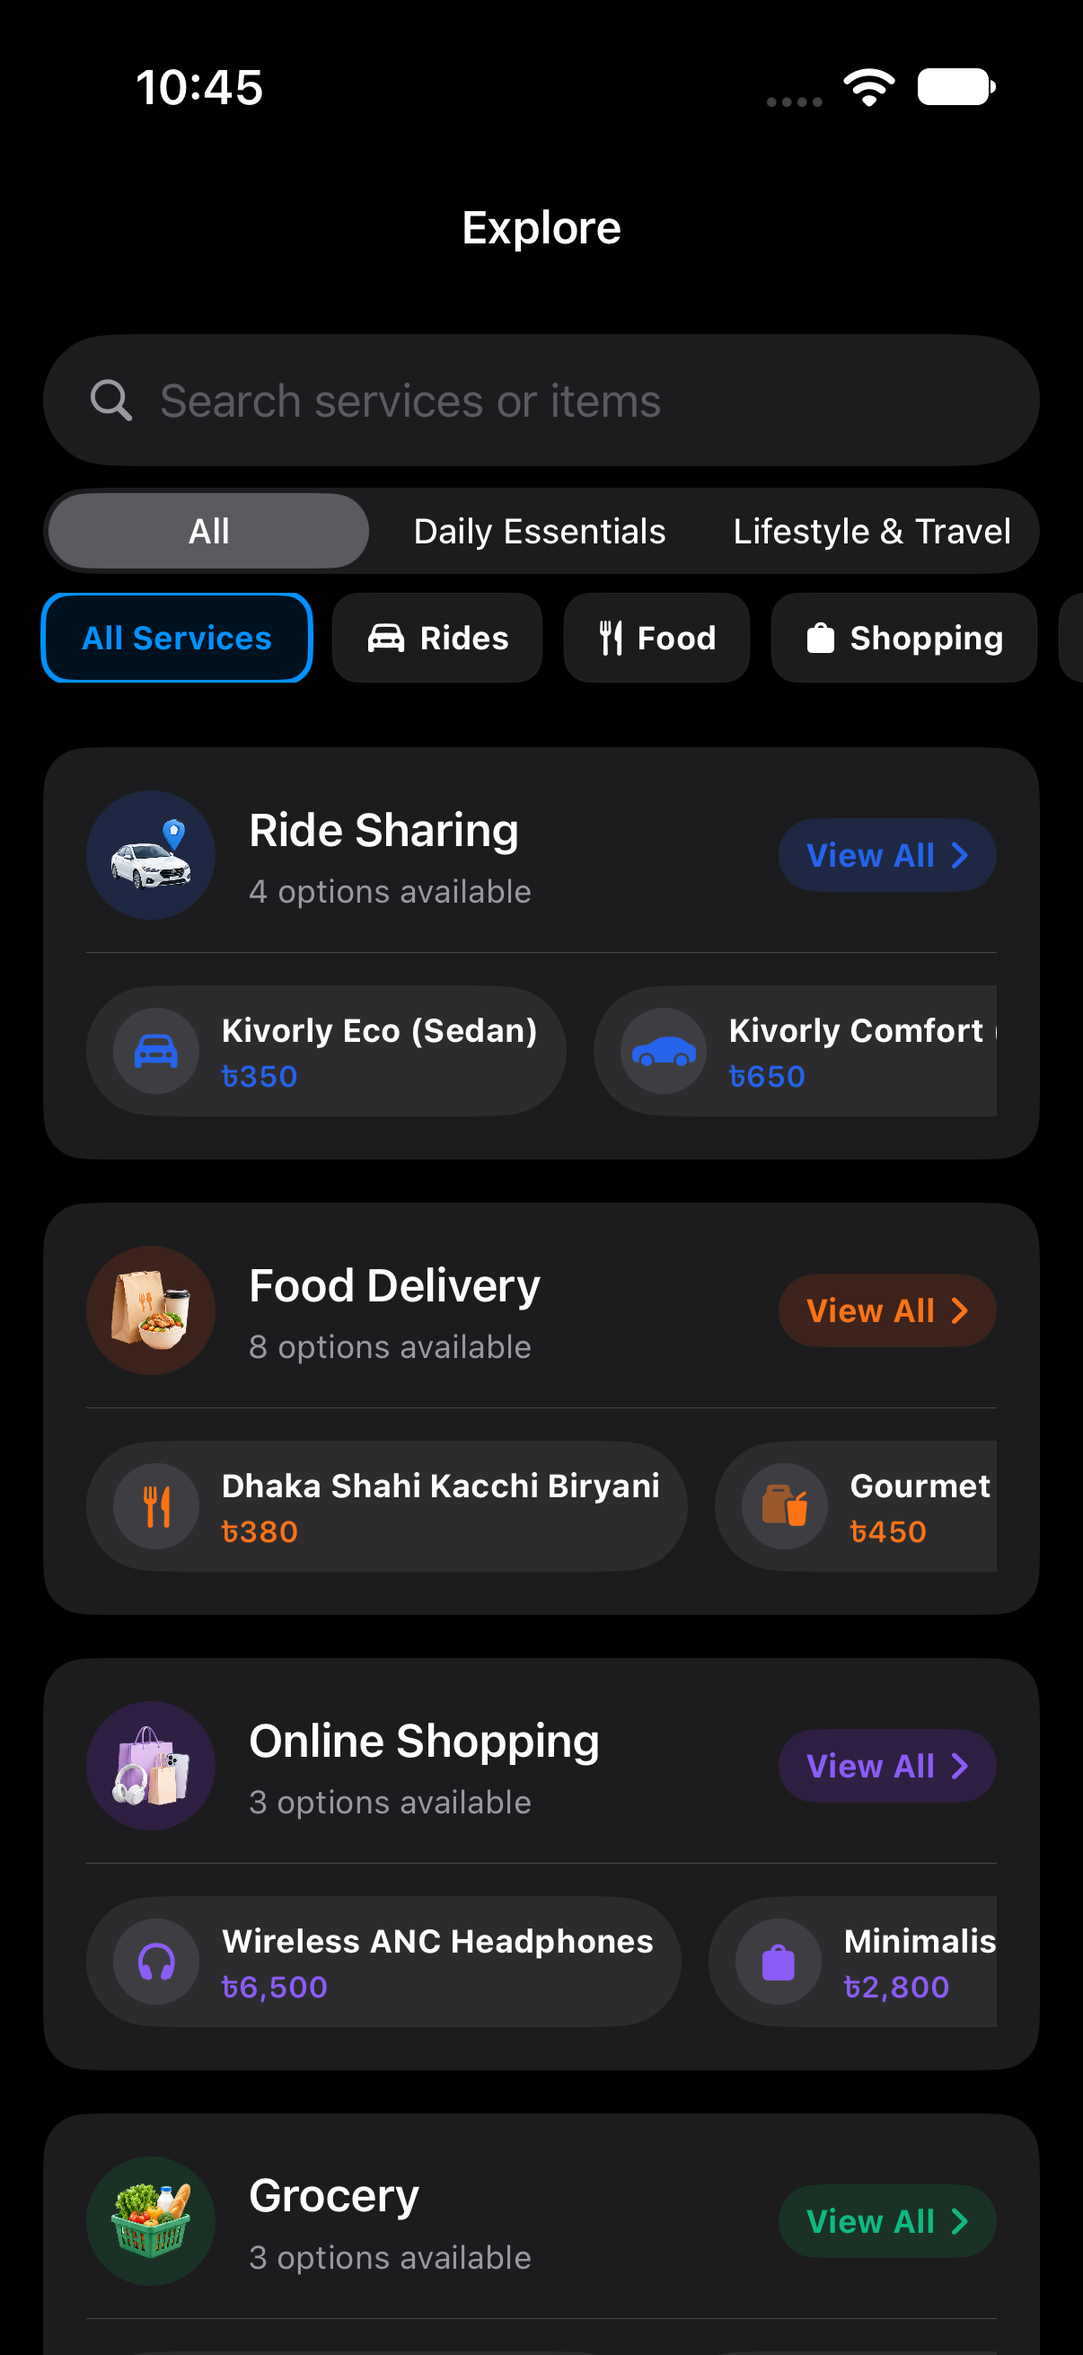
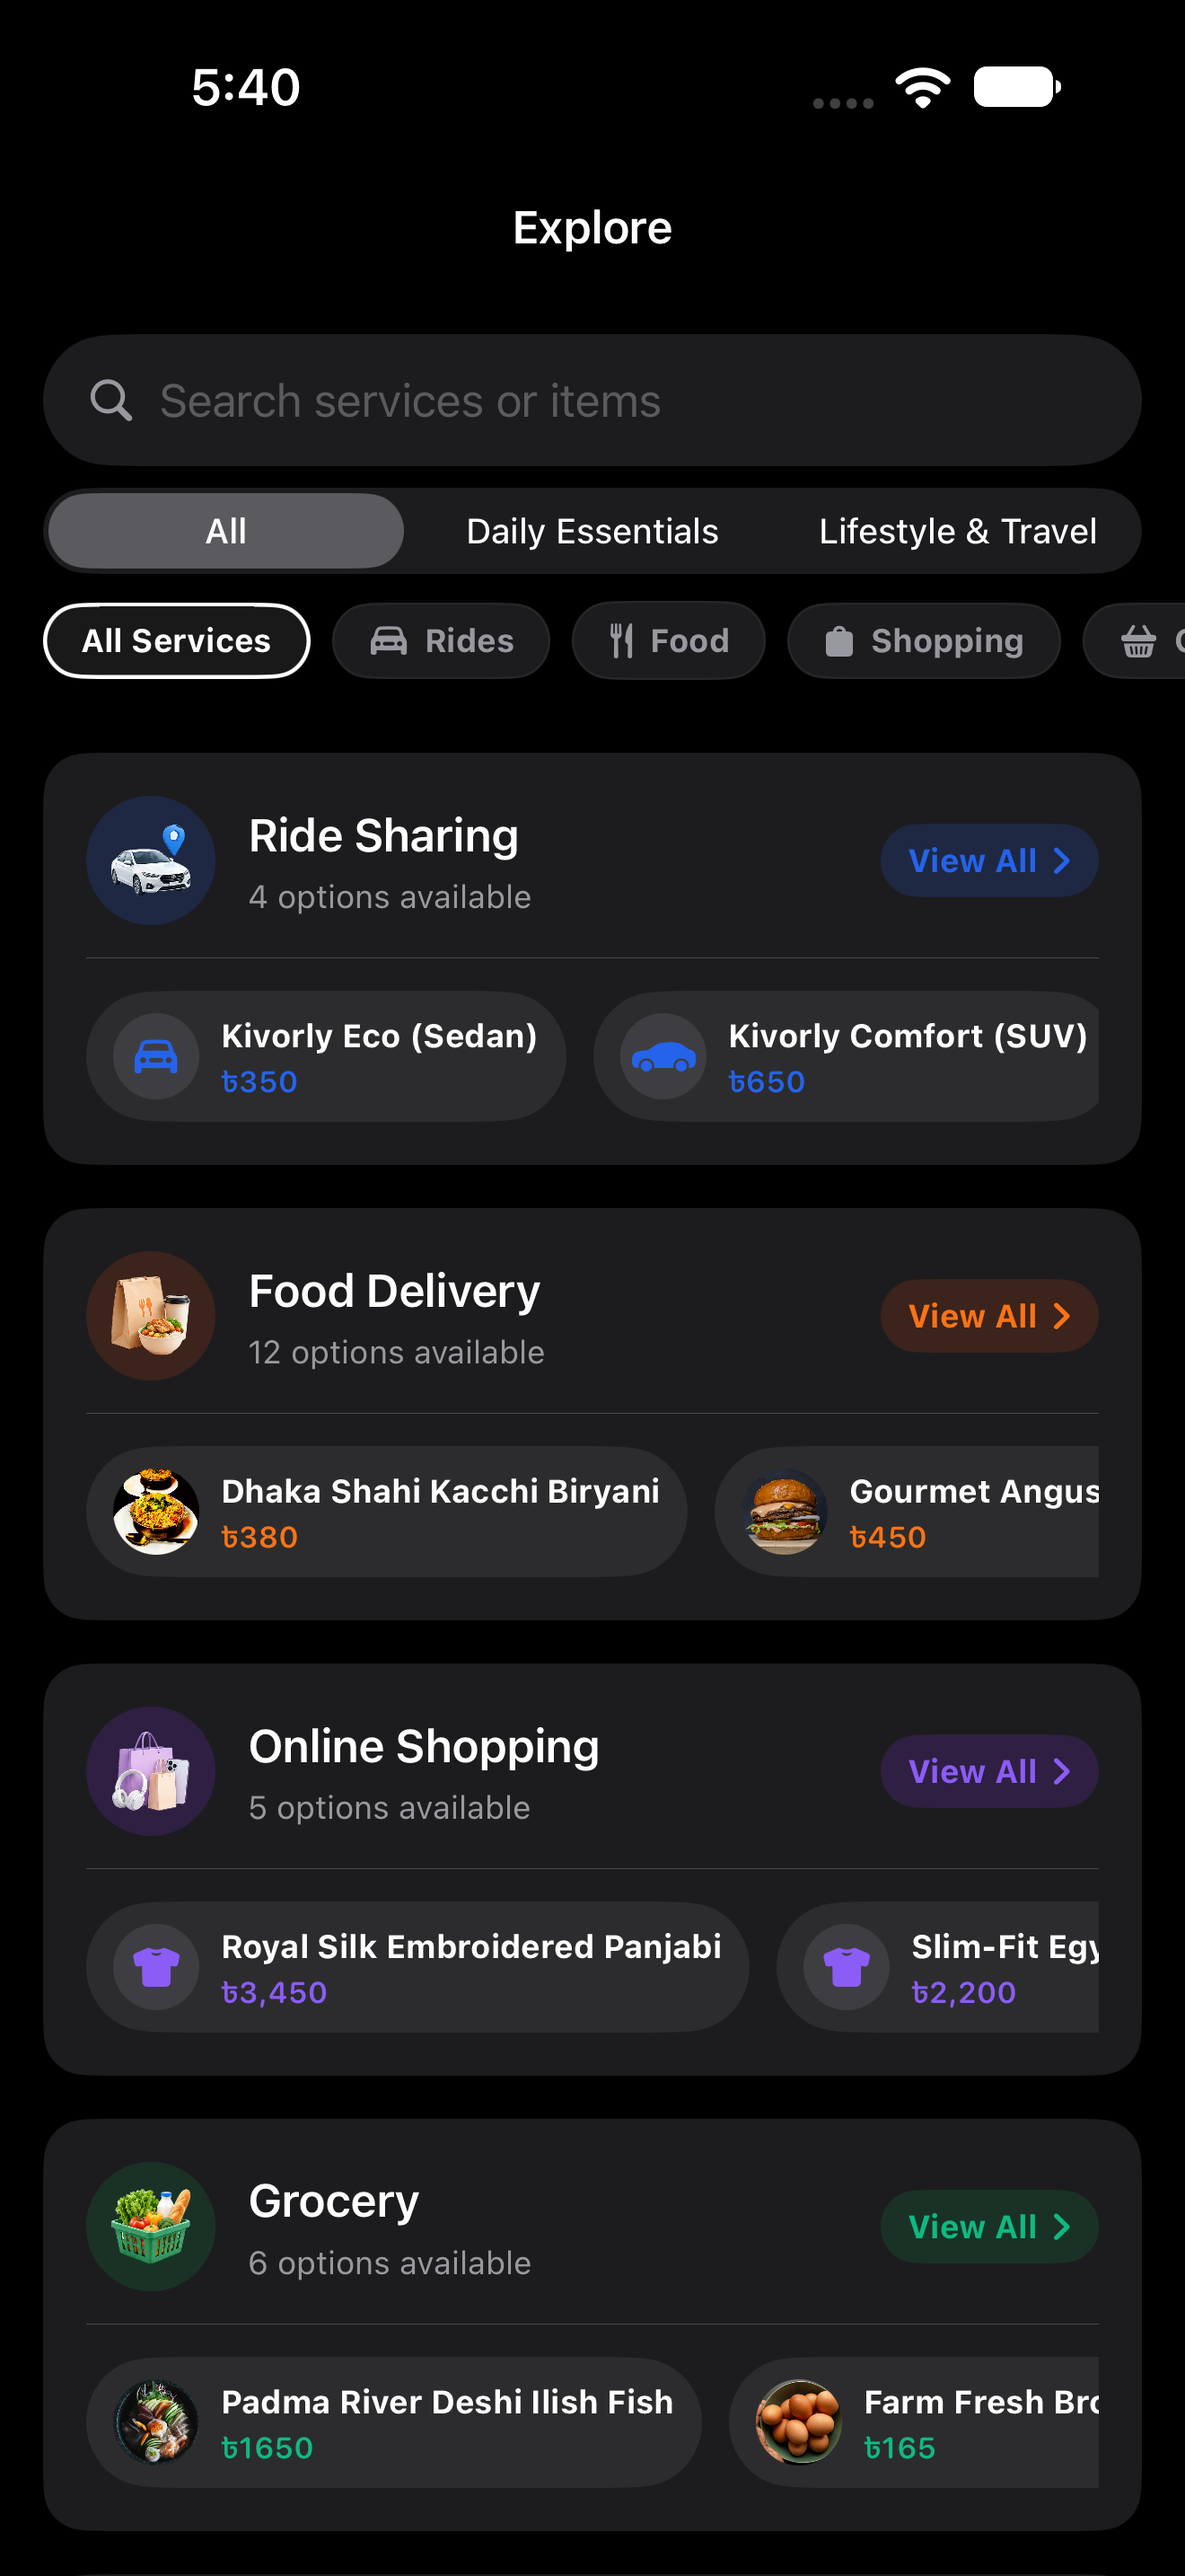
docs: showcase all updated screens with real photography and UI subflows in README

diff --git a/README.md b/README.md
@@ -3,7 +3,7 @@
 <img src="web/public/app-icon.png" width="96" alt="Kivorly Logo"/>
 
 # Kivorly 🇧🇩
-### The Everything In One App for Bangladesh
+### The Everything In One Super App for Bangladesh
 
 [![Version](https://img.shields.io/badge/Version-v1.0.0-006A4E?style=flat-square)](https://github.com/theshoaibme/kivorly/releases)
 [![iOS](https://img.shields.io/badge/iOS-SwiftUI%2017%2B-007AFF?style=flat-square&logo=apple&logoColor=white)](ios/)
@@ -14,36 +14,84 @@
 
 <p align="center">
   <b>Your everyday life in Bangladesh, simplified in one app.</b><br>
-  From hailing a quick ride across Dhaka and booking inter-city tickets, to sending parcels, shopping top brands, ordering fresh groceries, and reserving resort getaways — <b>Kivorly</b> connects you to all your daily needs with local payments (bKash, Nagad, COD) and real-time tracking across all 64 districts.
+  From hailing an Uber-style ride across Dhaka and booking inter-city Scania buses or trains, to sending parcels nationwide, shopping curated brand fashion, ordering fresh daily groceries, dining from premier restaurants with authentic stock photography, and reserving resort getaways — <b>Kivorly</b> connects all your daily needs with local payments (bKash, Nagad, Cards, Cash on Delivery) and real-time tracking across all 64 districts.
 </p>
 
 </div>
 
 ---
 
-## 📱 App Preview
+## 📱 App Highlights
 
 <div align="center">
 
-| Home Dashboard | Live Navigation | Express Ride | Food & Dining |
+| Home Dashboard | Express Ride (Uber-Style) | Food Dining (Real Photos) | Fresh Bazaar (2x2 Grid) |
 | :---: | :---: | :---: | :---: |
-| <img src="docs/screenshots/01_home_dashboard.png" width="220" alt="Home"/> | <img src="docs/screenshots/04_activity_live.png" width="220" alt="Activity"/> | <img src="docs/screenshots/06_service_ride_sharing.png" width="220" alt="Rides"/> | <img src="docs/screenshots/12_service_food_delivery.png" width="220" alt="Food"/> |
+| <img src="docs/screenshots/04_Home_Dashboard.png" width="210" alt="Home Dashboard"/> | <img src="docs/screenshots/09_Service_Ride_Sharing.png" width="210" alt="Ride Sharing"/> | <img src="docs/screenshots/10_Service_Food_Delivery.png" width="210" alt="Food Delivery"/> | <img src="docs/screenshots/11_Service_Grocery_Bazaar.png" width="210" alt="Grocery Bazaar"/> |
+
+</div>
+
+---
+
+## 📸 Complete App Screens & Sub-Flows
+
+<div align="center">
+
+### 1. Onboarding & Authentication
+
+| 01. Splash Screen | 02. Solar Orbit Onboarding | 03. SMS OTP Authentication |
+| :---: | :---: | :---: |
+| <img src="docs/screenshots/01_Splash_Screen.png" width="220" alt="Splash Screen"/> | <img src="docs/screenshots/02_Onboarding_Screen.png" width="220" alt="Onboarding Screen"/> | <img src="docs/screenshots/03_Authentication_Screen.png" width="220" alt="Authentication Screen"/> |
+
+<br>
+
+### 2. Core Navigation Shell
+
+| 04. Home Dashboard | 05. Explore Directory | 06. Orders Management | 07. Real-Time Activity | 08. User Profile |
+| :---: | :---: | :---: | :---: | :---: |
+| <img src="docs/screenshots/04_Home_Dashboard.png" width="160" alt="Home"/> | <img src="docs/screenshots/05_Explore_Tab.png" width="160" alt="Explore"/> | <img src="docs/screenshots/06_Orders_Tab.png" width="160" alt="Orders"/> | <img src="docs/screenshots/07_Activity_Tab.png" width="160" alt="Activity"/> | <img src="docs/screenshots/08_Profile_Tab.png" width="160" alt="Profile"/> |
+
+<br>
+
+### 3. All 8 Vertical Services in Bangladesh
+
+| 🚗 Ride Sharing | 🍔 Food Delivery | 🥬 Fresh Grocery Bazaar | 🛍 Online Shopping |
+| :---: | :---: | :---: | :---: |
+| <img src="docs/screenshots/09_Service_Ride_Sharing.png" width="190" alt="Ride Sharing"/> | <img src="docs/screenshots/10_Service_Food_Delivery.png" width="190" alt="Food Delivery"/> | <img src="docs/screenshots/11_Service_Grocery_Bazaar.png" width="190" alt="Grocery Bazaar"/> | <img src="docs/screenshots/12_Service_Online_Shopping.png" width="190" alt="Online Shopping"/> |
+
+| 🎫 Tickets & Travel | 📦 Express Courier | 🏖 Hotels & Resorts | 🛠 On-Demand Home Services |
+| :---: | :---: | :---: | :---: |
+| <img src="docs/screenshots/13_Service_Tickets_Booking.png" width="190" alt="Tickets Booking"/> | <img src="docs/screenshots/14_Service_Parcel_Courier.png" width="190" alt="Parcel Courier"/> | <img src="docs/screenshots/15_Service_Hotel_Resorts.png" width="190" alt="Hotels Resorts"/> | <img src="docs/screenshots/16_Service_Home_Services.png" width="190" alt="Home Services"/> |
 
 <br>
 
 <details align="center">
 <summary align="center">
-  <kbd><b>&nbsp; 📸 &nbsp; View More Service Screenshots &nbsp;&bull;&nbsp; Click to Expand &nbsp;</b></kbd>
+  <kbd><b>&nbsp; 🔍 &nbsp; View Checkout, Order Tracking & Profile Sub-Screens &nbsp;&bull;&nbsp; Click to Expand &nbsp;</b></kbd>
 </summary>
 <br>
 
-| Explore Directory | Inter-City Tickets | Express Courier | Brand Shopping |
-| :---: | :---: | :---: | :---: |
-| <img src="docs/screenshots/02_explore_directory.png" width="200" alt="Explore"/> | <img src="docs/screenshots/07_service_tickets.png" width="200" alt="Tickets"/> | <img src="docs/screenshots/08_service_parcel_delivery.png" width="200" alt="Parcels"/> | <img src="docs/screenshots/09_service_online_shopping.png" width="200" alt="Shopping"/> |
+### 4. Checkout & Live Lifecycle Tracking
 
-| Fresh Bazaar | Hotel & Resorts | Verified Services | Orders & Tracking |
-| :---: | :---: | :---: | :---: |
-| <img src="docs/screenshots/10_service_grocery.png" width="200" alt="Grocery"/> | <img src="docs/screenshots/11_service_hotel_packages.png" width="200" alt="Hotels"/> | <img src="docs/screenshots/13_service_home_services.png" width="200" alt="Services"/> | <img src="docs/screenshots/03_orders_history.png" width="200" alt="Orders"/> |
+| Food Item Checkout Modal | Live Route & Order Timeline Tracking |
+| :---: | :---: |
+| <img src="docs/screenshots/17_Food_Delivery_Checkout_Modal.png" width="220" alt="Food Delivery Checkout"/> | <img src="docs/screenshots/18_Order_Detail_Live_Tracking.png" width="220" alt="Live Route Tracking"/> |
+
+<br>
+
+### 5. Profile & Settings Sub-Screens
+
+| Edit Account Profile | Payment Methods (bKash/Nagad) | Privacy & Security |
+| :---: | :---: | :---: |
+| <img src="docs/screenshots/19_Profile_Edit_Screen.png" width="210" alt="Edit Profile"/> | <img src="docs/screenshots/20_Profile_Payment_Methods.png" width="210" alt="Payment Methods"/> | <img src="docs/screenshots/21_Profile_Privacy_Security.png" width="210" alt="Privacy Security"/> |
+
+| Saved Addresses | Notification Preferences | Help Center & FAQ |
+| :---: | :---: | :---: |
+| <img src="docs/screenshots/22_Profile_Saved_Addresses.png" width="210" alt="Saved Addresses"/> | <img src="docs/screenshots/23_Profile_Notification_Preferences.png" width="210" alt="Notifications"/> | <img src="docs/screenshots/24_Profile_Help_Center.png" width="210" alt="Help Center"/> |
+
+| Terms of Service & Privacy | Design System Component Catalog |
+| :---: | :---: |
+| <img src="docs/screenshots/25_Profile_Terms_Privacy.png" width="210" alt="Terms & Privacy"/> | <img src="docs/screenshots/26_Design_System_Catalog.png" width="210" alt="Design System"/> |
 
 </details>
 
@@ -51,18 +99,18 @@
 
 ---
 
-## ⚡ Core Verticals
+## ⚡ Core Verticals & Capabilities
 
-| Vertical | Description |
+| Vertical | Features & Details |
 | :--- | :--- |
-| 🚗 **Ride Sharing** | Real-time vehicle hailing across Dhaka with fare transparency and live GPS tracking. |
-| 🎫 **Tickets & Travel** | Bus, domestic flights, train, and launch bookings across all 64 districts. |
-| 📦 **Express Parcels** | Same-day city courier & nationwide delivery with Cash on Delivery (COD). |
-| 🛍 **Brand Mall** | Curated official lifestyle and tech stores (Yellow, Aarong, Walton, Apex). |
-| 🥬 **Fresh Bazaar** | 1-hour doorstep delivery of fresh produce, pantry essentials, and fish/meat. |
-| 🏖 **Hotels & Stays** | Verified resorts and vacation rentals in Cox's Bazar, Sylhet, and Sajek. |
-| 🍔 **Food Delivery** | Fast doorstep dining from top local and international restaurants. |
-| 🛠 **Home Services** | On-demand certified appliance repair, plumbing, and deep cleaning. |
+| 🚗 **Ride Sharing** | Interactive Uber-style Dhaka map, pickup/drop-off pins, vehicle tiers (Moto, Car, CNG, Micro), real-time pricing, and fare estimate breakdown. |
+| 🍔 **Food Delivery** | Authentic high-resolution stock photography (no generic icons or emojis), Dhaka culinary icons (Sultan's Dine, Madchef, The Pizza Guy, North End), dish itemization, and checkout. |
+| 🥬 **Fresh Bazaar** | 2x2 grid format, real grocery photos (Ilish fish, Miniket rice, mustard oil, farm eggs, beef cuts), instant category filtering, and cart counter. |
+| 🛍 **Brand Mall** | Clean shopping bag view, soft background, flat design with zero gradients and zero drop shadows, default iOS button styling, and instant checkout. |
+| 🎫 **Tickets & Travel** | Scania AC bus, Bangladesh Railway train, and Barisal luxury launch bookings across all 64 districts. |
+| 📦 **Express Parcels** | Doorstep parcel pickup, nationwide delivery network, weight selector, and Cash on Delivery (COD) settlement. |
+| 🏖 **Hotels & Stays** | Handpicked resorts in Cox's Bazar, Sylhet tea estates, Dhaka luxury escapes, with date pickers and guest selectors. |
+| 🛠 **Home Services** | Certified technicians for AC servicing, home cleaning, plumbing, electrical maintenance, and home appliance repairs. |
 
 ---
 
